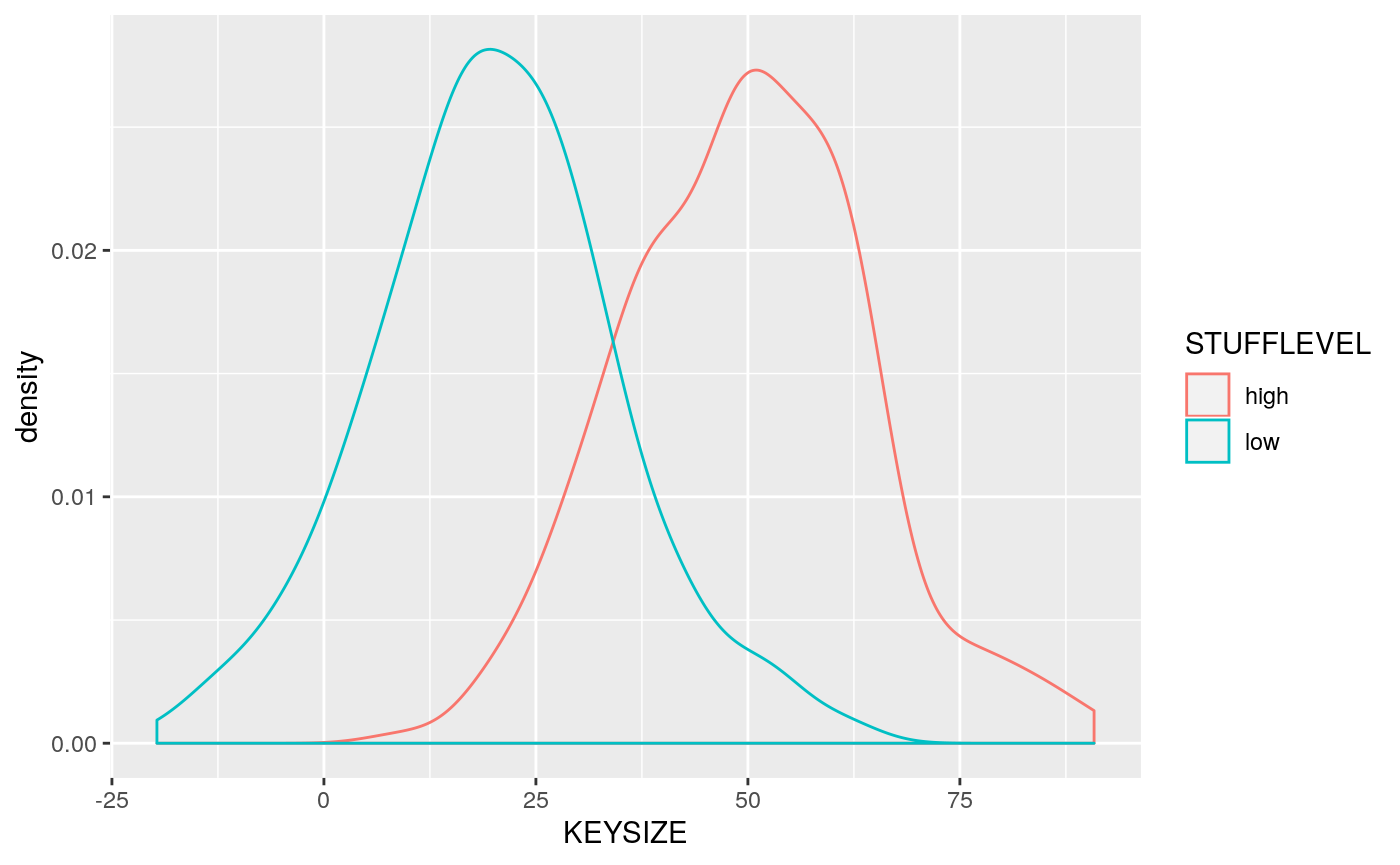
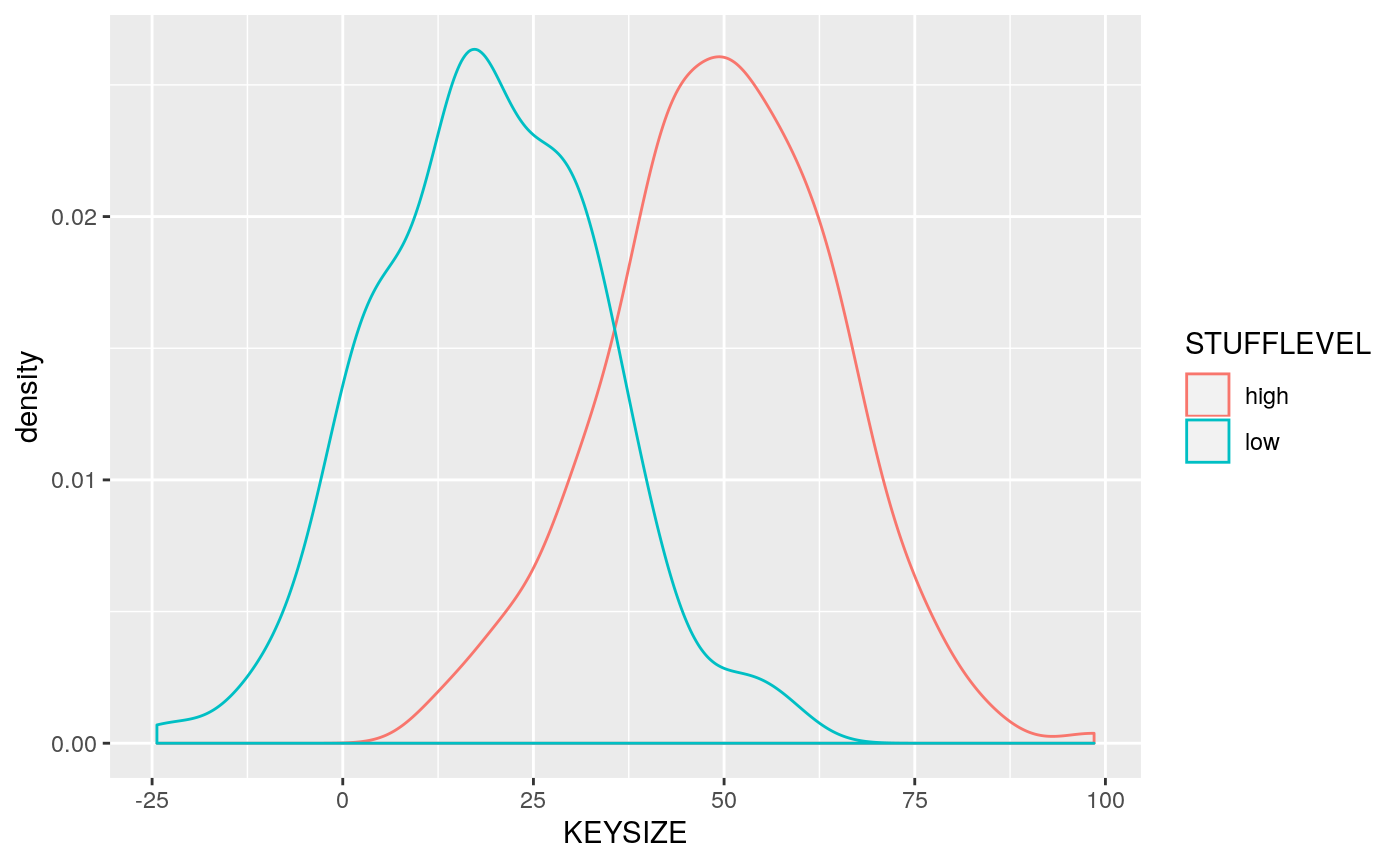
[skip ci] Publish GiHub Pages

diff --git a/articles/creating_synth_relational_data.html b/articles/creating_synth_relational_data.html
@@ -191,13 +191,13 @@
 <a class="sourceLine" id="cb1-25" data-line-number="25"></a>
 <a class="sourceLine" id="cb1-26" data-line-number="26">sillydata &lt;-<span class="st"> </span><span class="kw"><a href="https://rdrr.io/pkg/respectables/man/gen_table_data.html">gen_table_data</a></span>(<span class="dt">N =</span> <span class="dv">500</span>, <span class="dt">recipe =</span> recipe)</a>
 <a class="sourceLine" id="cb1-27" data-line-number="27"><span class="kw"><a href="https://rdrr.io/r/utils/head.html">head</a></span>(sillydata)</a></code></pre></div>
-<pre><code>##      ID STUFFLEVEL  KEYSIZE           ACCT_OPEN ACCT_CLOSED
-## 1 ID001       high 38.82112 2020-04-03 21:36:44        &lt;NA&gt;
-## 2 ID002        low 16.26306 2017-02-20 03:05:49        &lt;NA&gt;
-## 3 ID003        low 27.01947 2019-02-03 01:39:27        &lt;NA&gt;
-## 4 ID004       high 40.65884 2017-08-03 07:51:51        &lt;NA&gt;
-## 5 ID005        low -7.27054 2020-09-27 02:32:29        &lt;NA&gt;
-## 6 ID006       high 57.04580 2020-11-17 11:57:01        &lt;NA&gt;</code></pre>
+<pre><code>##      ID STUFFLEVEL   KEYSIZE           ACCT_OPEN ACCT_CLOSED
+## 1 ID001        low  3.821745 2020-04-20 05:02:32        &lt;NA&gt;
+## 2 ID002        low 29.499254 2015-10-11 23:14:22        &lt;NA&gt;
+## 3 ID003        low 15.192368 2020-12-31 20:36:45        &lt;NA&gt;
+## 4 ID004       high 45.648720 2016-07-21 11:31:50        &lt;NA&gt;
+## 5 ID005        low 24.237018 2016-04-02 09:09:05        &lt;NA&gt;
+## 6 ID006        low 34.080408 2018-08-29 16:30:51        &lt;NA&gt;</code></pre>
 <p>We can see that the conditional distribution worked by plotting the data densities for each <code>STUFFLEVEL</code> value</p>
 <div class="sourceCode" id="cb3"><pre class="sourceCode r"><code class="sourceCode r"><a class="sourceLine" id="cb3-1" data-line-number="1"><span class="kw"><a href="https://rdrr.io/r/base/message.html">suppressPackageStartupMessages</a></span>(<span class="kw"><a href="https://rdrr.io/r/base/library.html">library</a></span>(ggplot2))</a>
 <a class="sourceLine" id="cb3-2" data-line-number="2"></a>
@@ -291,19 +291,19 @@
 <a class="sourceLine" id="cb6-65" data-line-number="65">buysdf &lt;-<span class="st"> </span><span class="kw"><a href="https://rdrr.io/pkg/respectables/man/gen_reljoin_table.html">gen_reljoin_table</a></span>(sjrecipe, buys_rec, <span class="dt">db =</span> <span class="kw"><a href="https://rdrr.io/r/base/list.html">list</a></span>(<span class="dt">sillydata =</span> sillydata))</a>
 <a class="sourceLine" id="cb6-66" data-line-number="66"><span class="kw"><a href="https://rdrr.io/r/utils/head.html">head</a></span>(buysdf)</a></code></pre></div>
 <pre><code>##      ID STUFFLEVEL  KEYSIZE           ACCT_OPEN ACCT_CLOSED BUYID
-## 3 ID002        low 16.26306 2017-02-20 03:05:49        &lt;NA&gt;   166
-## 2 ID002        low 16.26306 2017-02-20 03:05:49        &lt;NA&gt;   301
-## 4 ID002        low 16.26306 2017-02-20 03:05:49        &lt;NA&gt;   631
-## 1 ID002        low 16.26306 2017-02-20 03:05:49        &lt;NA&gt;   735
-## 5 ID003        low 27.01947 2019-02-03 01:39:27        &lt;NA&gt;   392
-## 6 ID004       high 40.65884 2017-08-03 07:51:51        &lt;NA&gt;   185
+## 1 ID002        low 29.49925 2015-10-11 23:14:22        &lt;NA&gt;  1053
+## 2 ID003        low 15.19237 2020-12-31 20:36:45        &lt;NA&gt;  1125
+## 4 ID003        low 15.19237 2020-12-31 20:36:45        &lt;NA&gt;  1173
+## 3 ID003        low 15.19237 2020-12-31 20:36:45        &lt;NA&gt;  1195
+## 7 ID005        low 24.23702 2016-04-02 09:09:05        &lt;NA&gt;    45
+## 8 ID005        low 24.23702 2016-04-02 09:09:05        &lt;NA&gt;   116
 ##               BUYDATE PRODUCTID         DESC
-## 3 2017-11-23 21:34:52     PROD1       Doodad
-## 2 2018-10-18 10:56:47     PROD4      Spanner
-## 4 2020-03-05 16:26:07     PROD5     Thingbat
-## 1 2020-06-03 22:51:40     PROD2 HLight Fluid
-## 5 2019-03-28 01:34:32     PROD4      Spanner
-## 6 2018-01-13 08:09:20     PROD5     Thingbat</code></pre>
+## 1 2021-02-19 04:52:21     PROD2 HLight Fluid
+## 2 2021-04-11 18:12:45     PROD1       Doodad
+## 4 2021-05-06 05:17:30     PROD5     Thingbat
+## 3 2021-05-16 08:40:28     PROD2 HLight Fluid
+## 7 2016-08-23 05:28:46     PROD4      Spanner
+## 8 2017-07-22 02:53:03     PROD3     Mcguffin</code></pre>
 </div>
 </div>
   </div>

diff --git a/reference/lookup_fun.html b/reference/lookup_fun.html
@@ -149,16 +149,16 @@ it directly.</p>
     <h2 class="hasAnchor" id="examples"><a class="anchor" href="#examples"></a>Examples</h2>
     <pre class="examples"><div class='input'><span class='fu'>lookup_fun</span>(<span class='no'>rnorm</span>)</div><div class='output co'>#&gt; function (n, mean = 0, sd = 1) 
 #&gt; .Call(C_rnorm, n, mean, sd)
-#&gt; &lt;bytecode: 0x55ef131d2940&gt;
+#&gt; &lt;bytecode: 0x55c0ba254320&gt;
 #&gt; &lt;environment: namespace:stats&gt;</div><div class='input'><span class='fu'>lookup_fun</span>(<span class='st'>"rnorm"</span>)</div><div class='output co'>#&gt; function (n, mean = 0, sd = 1) 
 #&gt; .Call(C_rnorm, n, mean, sd)
-#&gt; &lt;bytecode: 0x55ef131d2940&gt;
+#&gt; &lt;bytecode: 0x55c0ba254320&gt;
 #&gt; &lt;environment: namespace:stats&gt;</div><div class='input'><span class='fu'>lookup_fun</span>(<span class='st'>"stats::rnorm"</span>)</div><div class='output co'>#&gt; function (n, mean = 0, sd = 1) 
 #&gt; .Call(C_rnorm, n, mean, sd)
-#&gt; &lt;bytecode: 0x55ef131d2940&gt;
+#&gt; &lt;bytecode: 0x55c0ba254320&gt;
 #&gt; &lt;environment: namespace:stats&gt;</div><div class='input'><span class='fu'>lookup_fun</span>(<span class='st'>"stats:::rnorm"</span>)</div><div class='output co'>#&gt; function (n, mean = 0, sd = 1) 
 #&gt; .Call(C_rnorm, n, mean, sd)
-#&gt; &lt;bytecode: 0x55ef131d2940&gt;
+#&gt; &lt;bytecode: 0x55c0ba254320&gt;
 #&gt; &lt;environment: namespace:stats&gt;</div></pre>
   </div>
   <div class="col-md-3 hidden-xs hidden-sm" id="sidebar">
